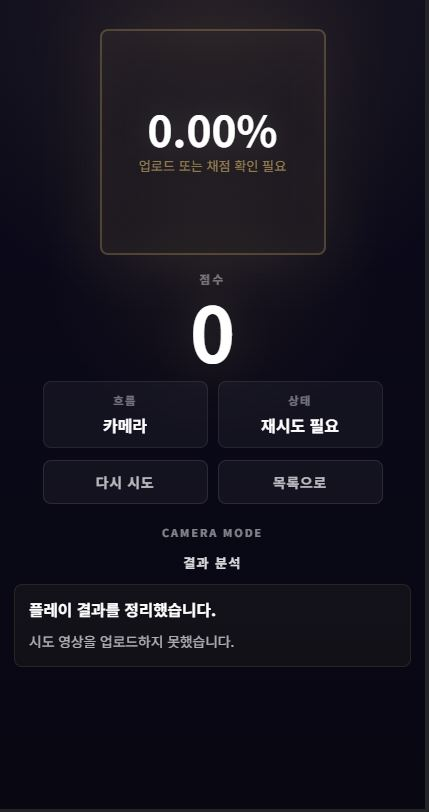
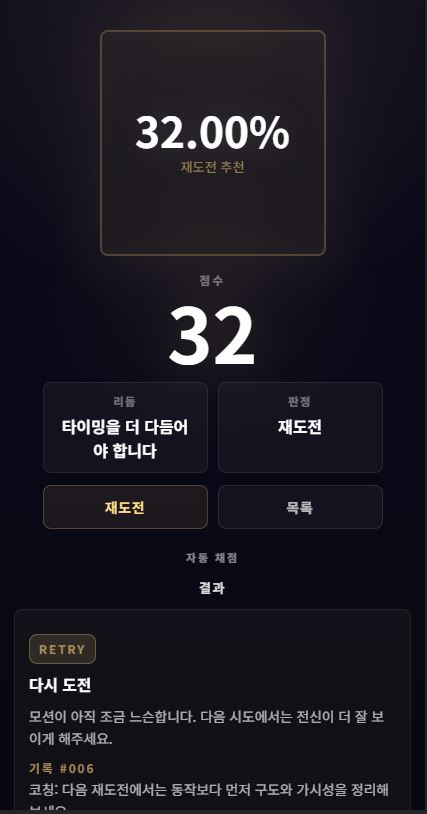
readme 수정

diff --git a/README.md b/README.md
@@ -12,8 +12,8 @@
 - [주요 기능](#주요-기능)
 - [기술 스택](#기술-스택)
 - [담당 역할 (개인 프로젝트)](#담당-역할-개인-프로젝트)
-- [핵심 구현 (2~3)](#핵심-구현-2~3)
-- [트러블슈팅 (1)](#트러블슈팅-1)
+- [핵심 구현](#핵심-구현)
+- [트러블슈팅](#트러블슈팅)
 - [실행 방법](#실행-방법)
 - [화면 이미지](#화면-이미지)
 - [저장소 구조](#저장소-구조)
@@ -45,6 +45,7 @@ npm.cmd run dev
 
 ---
 
+<a id="프로젝트-소개"></a>
 ## 프로젝트 소개
 
 Mocha는 “짧게 따라 하고 바로 피드백 받는” 경험에 집중한 모션 챌린지 웹 플랫폼입니다.  
@@ -53,6 +54,7 @@ Mocha는 “짧게 따라 하고 바로 피드백 받는” 경험에 집중한 
 - 제품 범위/비목표: [docs/PRODUCT.md](docs/PRODUCT.md)
 - 구조/모듈 맵: [docs/ARCHITECTURE.md](docs/ARCHITECTURE.md)
 
+<a id="주요-기능"></a>
 ## 주요 기능
 
 - **공개 사용자**
@@ -67,6 +69,7 @@ Mocha는 “짧게 따라 하고 바로 피드백 받는” 경험에 집중한 
   - 모델 자산 관리
   - 챌린지 기준 영상(레퍼런스) 분석 실행
 
+<a id="기술-스택"></a>
 ## 기술 스택
 
 - **Frontend**: React 18, TypeScript, Vite, React Router, Vitest
@@ -75,6 +78,7 @@ Mocha는 “짧게 따라 하고 바로 피드백 받는” 경험에 집중한 
 - **Infra(Local)**: MySQL 8.4, Redis 7.4 (`docker-compose.yml`)
 - **Test**: H2(테스트 프로필), Spring Boot Test, Spring Security Test
 
+<a id="담당-역할-개인-프로젝트"></a>
 ## 담당 역할 (개인 프로젝트)
 
 - 공개 UX/관리자 UX를 분리한 라우팅·레이아웃 구조 설계 및 구현
@@ -83,7 +87,8 @@ Mocha는 “짧게 따라 하고 바로 피드백 받는” 경험에 집중한 
 - MySQL 런타임 프로필과 H2 테스트 프로필 분리로 테스트 안정성 확보
 - MediaPipe 기반 분석을 브리지(FastAPI)로 분리해 확장 가능한 처리 경로 마련
 
-## 핵심 구현 (2~3)
+<a id="핵심-구현"></a>
+## 핵심 구현
 
 ### 1) 시도 업로드 → 처리 진행률 → 결과/이력 조회 플로우
 
@@ -103,7 +108,8 @@ Mocha는 “짧게 따라 하고 바로 피드백 받는” 경험에 집중한 
 - **해결**: MediaPipe 분석을 FastAPI 브리지로 분리하고, 백엔드는 HTTP로 요청하는 구조로 확장 경로를 마련했습니다.
 - **결과**: 분석 워커/모델 업데이트/성능 튜닝을 백엔드와 독립적으로 진행할 수 있습니다.
 
-## 트러블슈팅 (1)
+<a id="트러블슈팅"></a>
+## 트러블슈팅
 
 ### 로컬에서 MySQL 접속 실패(Access denied) / 설정이 꼬이는 문제
 
@@ -116,6 +122,7 @@ Mocha는 “짧게 따라 하고 바로 피드백 받는” 경험에 집중한 
   - 또는 도커를 쓰지 않는다면, 본인 로컬 MySQL 계정/비밀번호에 맞춰 `.env` 또는 `application-mysql.yml`을 일관되게 맞춥니다.
 - **배운점**: 로컬 실행에서 가장 큰 비용은 “코드”보다 “환경 불일치”입니다. 도커/프로필/환경변수의 단일 소스(Single Source of Truth)를 유지하면 시행착오가 줄어듭니다.
 
+<a id="실행-방법"></a>
 ## 실행 방법
 
 자세한 개발 가이드는 [docs/DEVELOPMENT.md](docs/DEVELOPMENT.md)를 참고하세요.
@@ -182,6 +189,7 @@ cd mediapipe-bridge
 
 소셜 로그인(OAuth2)을 붙이려면: [docs/SOCIAL_AUTH_SETUP.md](docs/SOCIAL_AUTH_SETUP.md)
 
+<a id="화면-이미지"></a>
 ## 화면 이미지
 
 스크린샷은 `docs/screenshots/`에 두고, README에서는 **필요할 때만 펼쳐서** 확인할 수 있도록 정리했습니다.
@@ -190,13 +198,13 @@ cd mediapipe-bridge
 <summary><b>사용자 흐름 스크린샷 보기</b></summary>
 
 - **챌린지 목록**: 활성 챌린지 탐색 진입점  
-  ![챌린지 목록](docs/screenshots/challenges.jpg)
-- **챌린지 상세/참여**: 상세 정보·레퍼런스 확인 후 시작  
-  ![챌린지 상세/참여](docs/screenshots/challenge-detail.jpg)
+  <img width="900" alt="챌린지 목록" src="docs/screenshots/challenges.jpg" />
 - **시도 업로드/카메라 확인**: 촬영/업로드 단계 진입  
-  ![시도 업로드/카메라 확인](docs/screenshots/attempt-upload.jpg)
+  <img width="900" alt="시도 업로드/카메라 확인" src="docs/screenshots/attempt-upload.jpg" />
+- **챌린지 상세/참여**: 상세 정보·레퍼런스 확인 후 시작  
+  <img width="900" alt="챌린지 상세/참여" src="docs/screenshots/challenge-detail.jpg" />
 - **시도 결과**: 처리 완료 후 점수/결과 확인  
-  ![시도 결과](docs/screenshots/attempt-result.jpg)
+  <img width="900" alt="시도 결과" src="docs/screenshots/attempt-result.jpg" />
 
 </details>
 
@@ -204,14 +212,15 @@ cd mediapipe-bridge
 <summary><b>관리자(운영) 스크린샷 보기</b></summary>
 
 - **챌린지 관리**: CRUD 및 활성/비활성 토글  
-  ![관리자 - 챌린지 관리](docs/screenshots/admin-challenges.jpg)
+  <img width="900" alt="관리자 - 챌린지 관리" src="docs/screenshots/admin-challenges.jpg" />
 - **챌린지 분석**: 기준 영상 분석 실행/관리  
-  ![관리자 - 챌린지 분석](docs/screenshots/admin-analysis.jpg)
+  <img width="900" alt="관리자 - 챌린지 분석" src="docs/screenshots/admin-analysis.jpg" />
 
 </details>
 
 ---
 
+<a id="저장소-구조"></a>
 ## 저장소 구조
 
 ```text